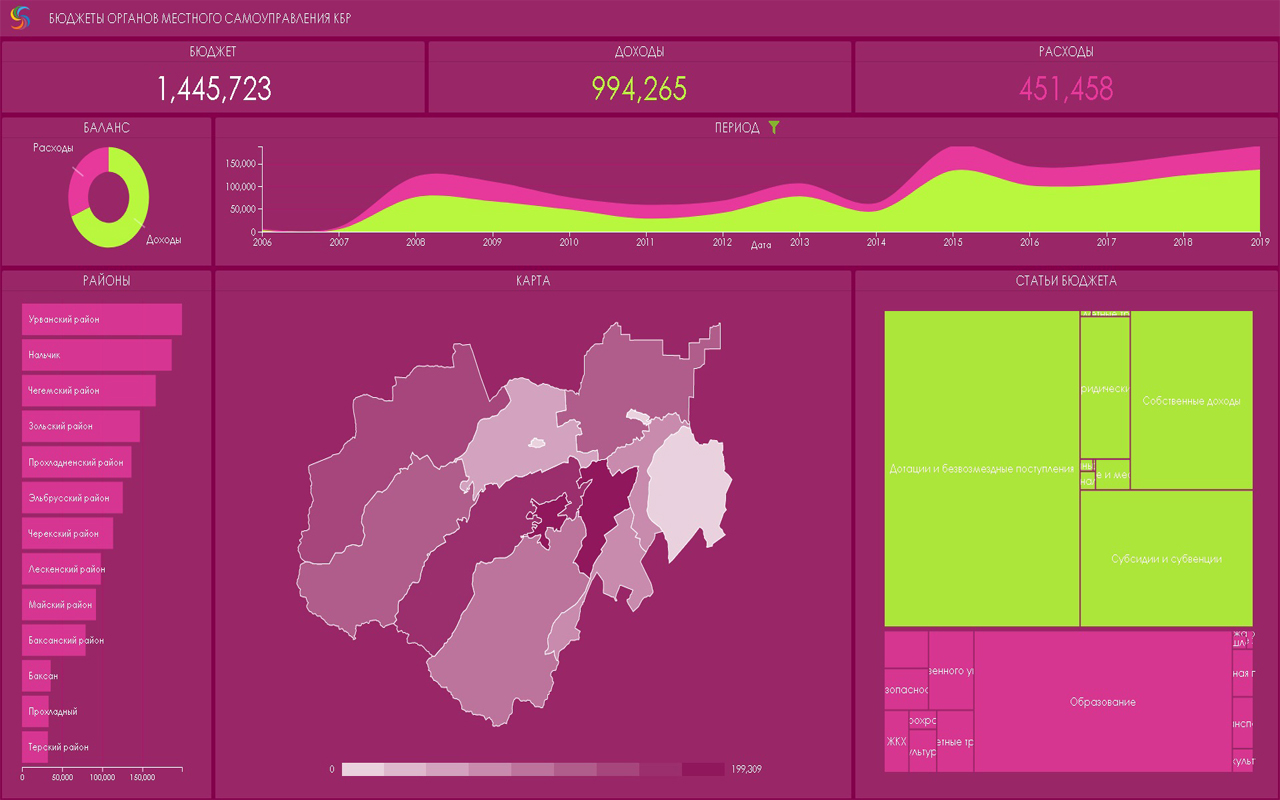
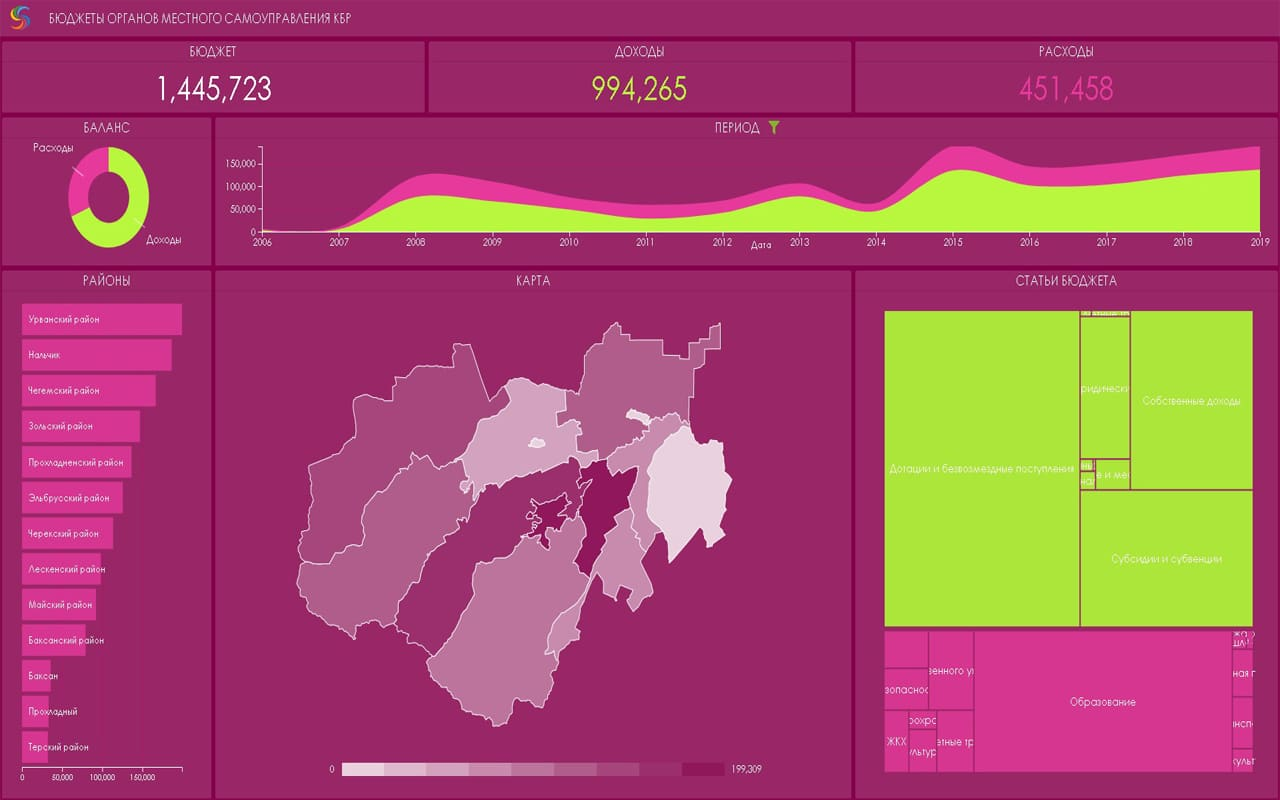
perf: recompress images, add WebP variants and portfolio thumbnails
- background.jpg: fix file name typo (backgroung.jpg), 326 KB -> 46 KB, + WebP 29 KB
- screen-1/2.png (LCP, before/after slider): palette PNG + WebP (32/53 KB)
- service/pricing icons: 512px -> 96px (shown at 30 CSS px)
- portfolio: recompressed JPEG + WebP, 700px thumbnails for the grid
- favicon.ico (16/32/48), 90px logo for the navbar, apple-touch-icon, 1200x630 og-image

Claude-Session: https://claude.ai/code/session_015igbpMMvzFpJiGHHsJAbDz

diff --git a/css/style.css b/css/style.css
@@ -3,7 +3,7 @@ html, body {
 }
 
 body {
-	background-image: url(../img/elements/backgroung.jpg);
+	background-image: url(../img/elements/background.jpg);
 	color: #fff;
 	font-family: Nunito;
 	height: 100%;
